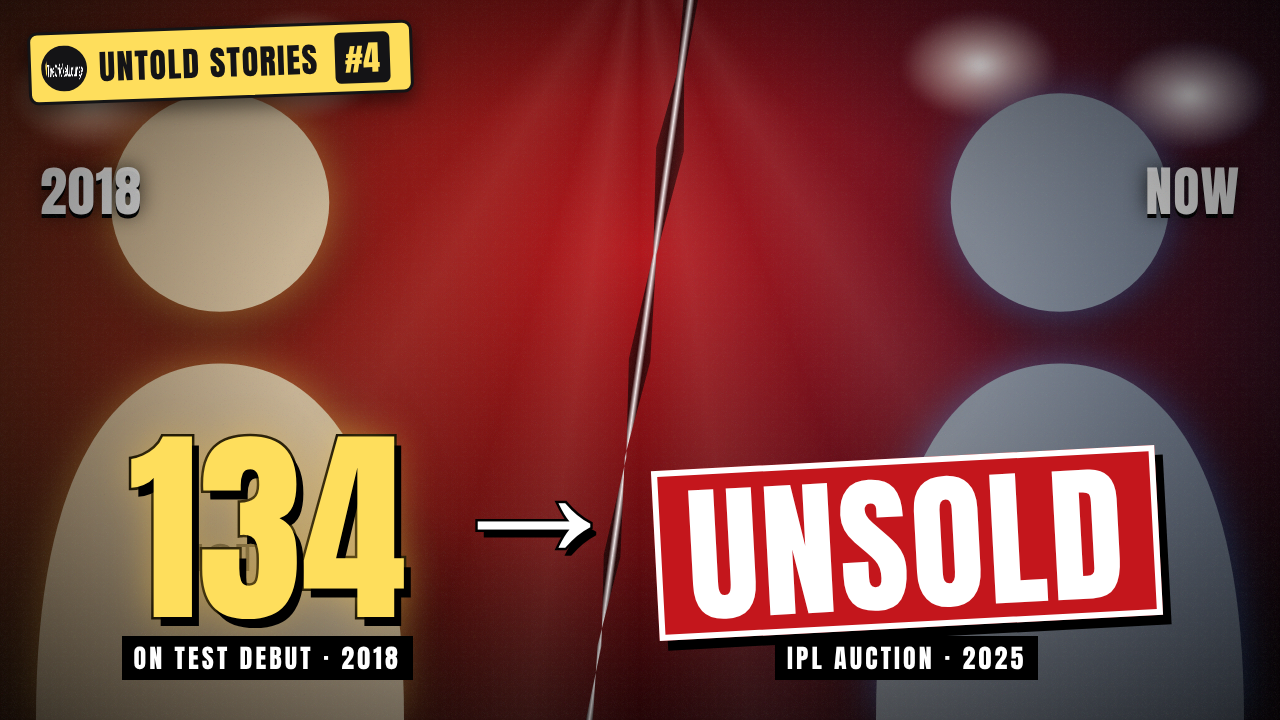
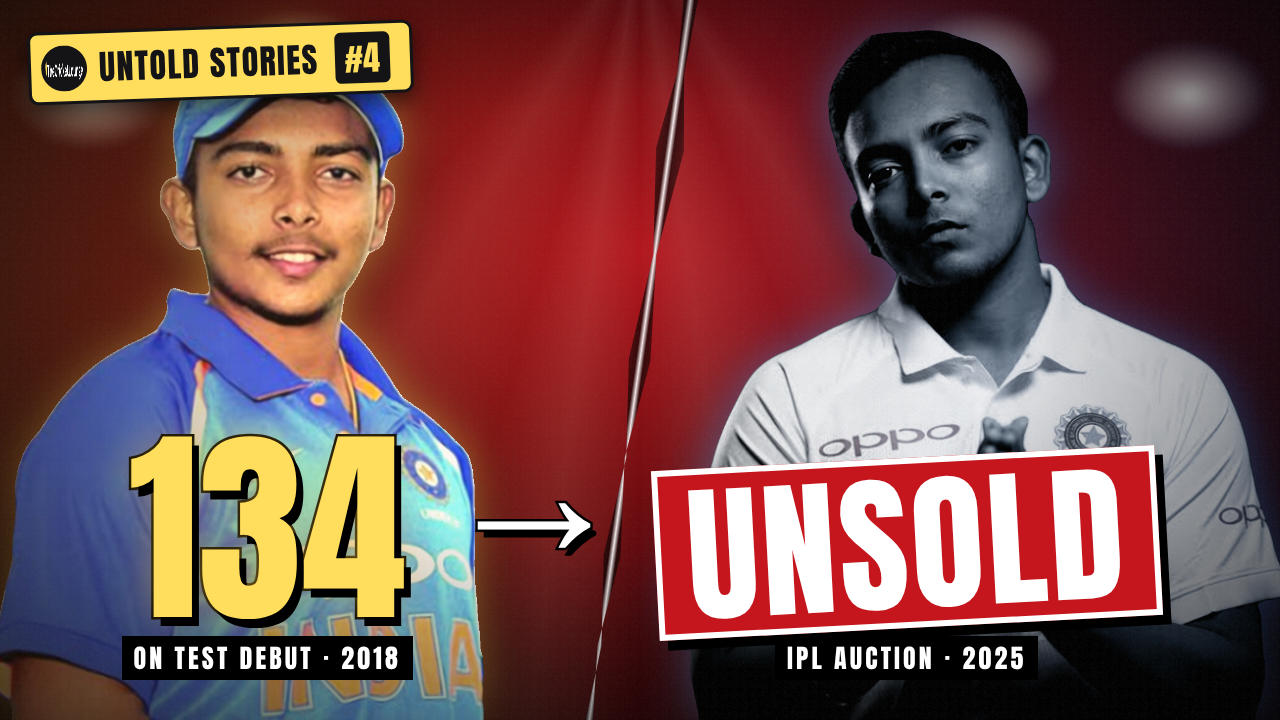
Shaw thumbnail: final renders with the supplied photos
Claude-Session: https://claude.ai/code/session_014dRxvjyiZ1YcVsK16qto2L

diff --git a/shaw_thumb/thumb.py b/shaw_thumb/thumb.py
@@ -120,7 +120,7 @@ body{{width:1280px;height:720px;overflow:hidden;background:#140203;font-family:"
 <div class="p young"><img src="{ysrc}"></div><div class="warmwash"></div>
 <div class="p now"><img src="{nsrc}"></div><div class="coldwash"></div>
 <div class="tear"></div>
-<div class="yrs" style="left:40px">2018</div><div class="yrs" style="right:40px">NOW</div>
+
 <div class="vig"></div><div class="grain"></div>
 {text}
 <div class="badge"><img src="{b64(os.path.join(HERE, "logo.png"))}"><span>UNTOLD STORIES</span><b>#4</b></div>
